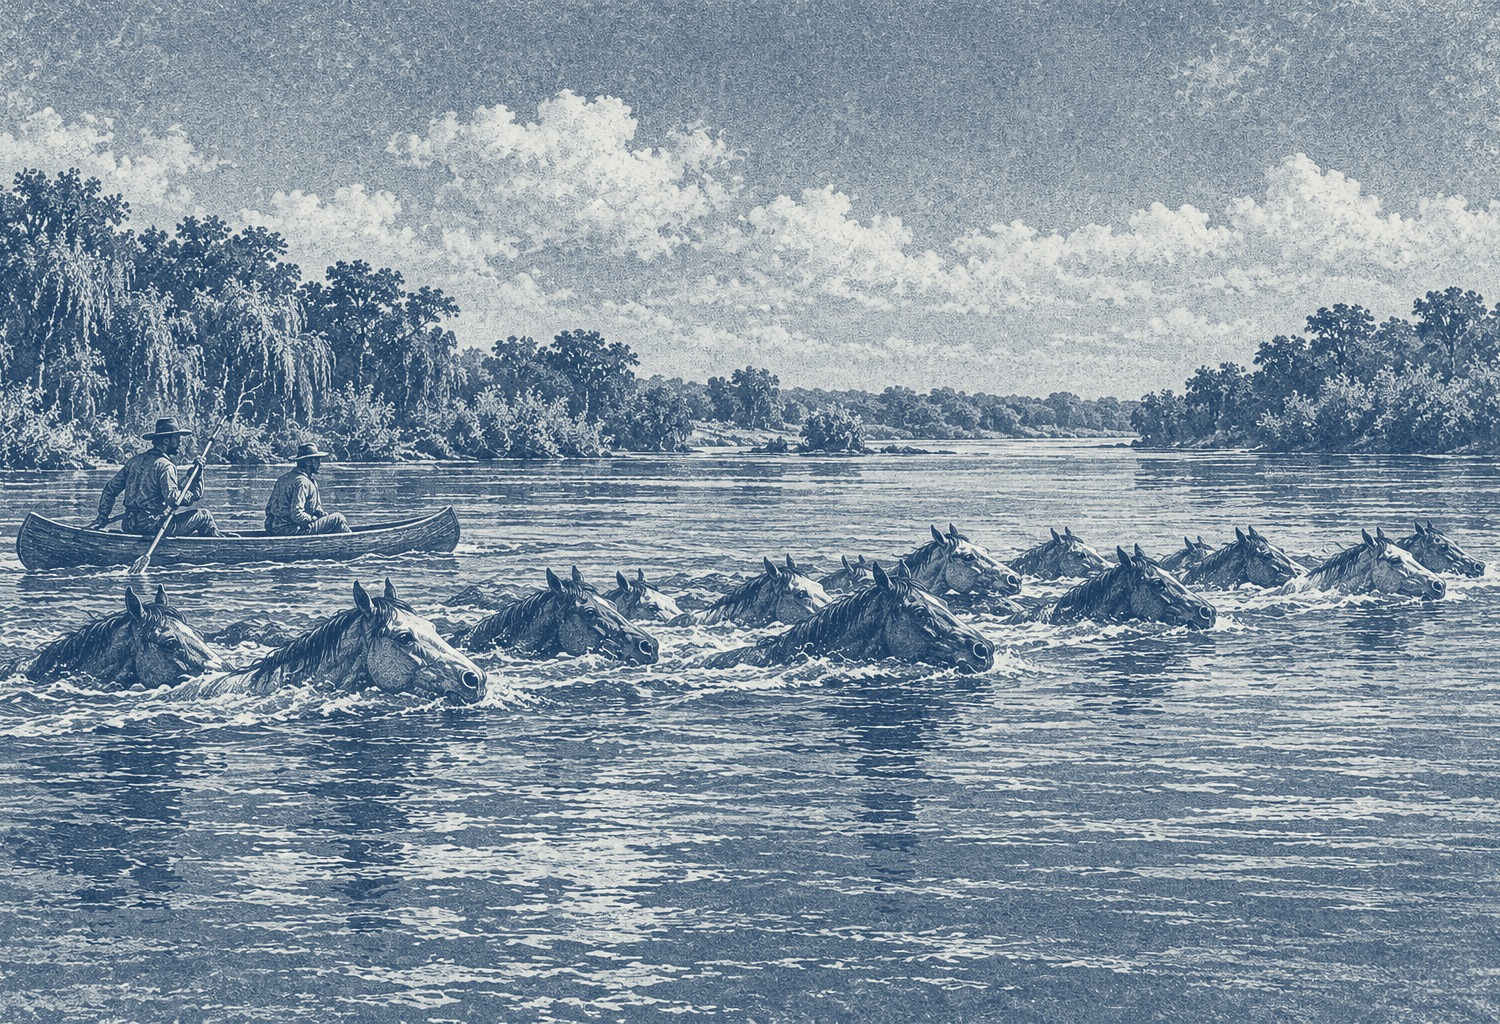
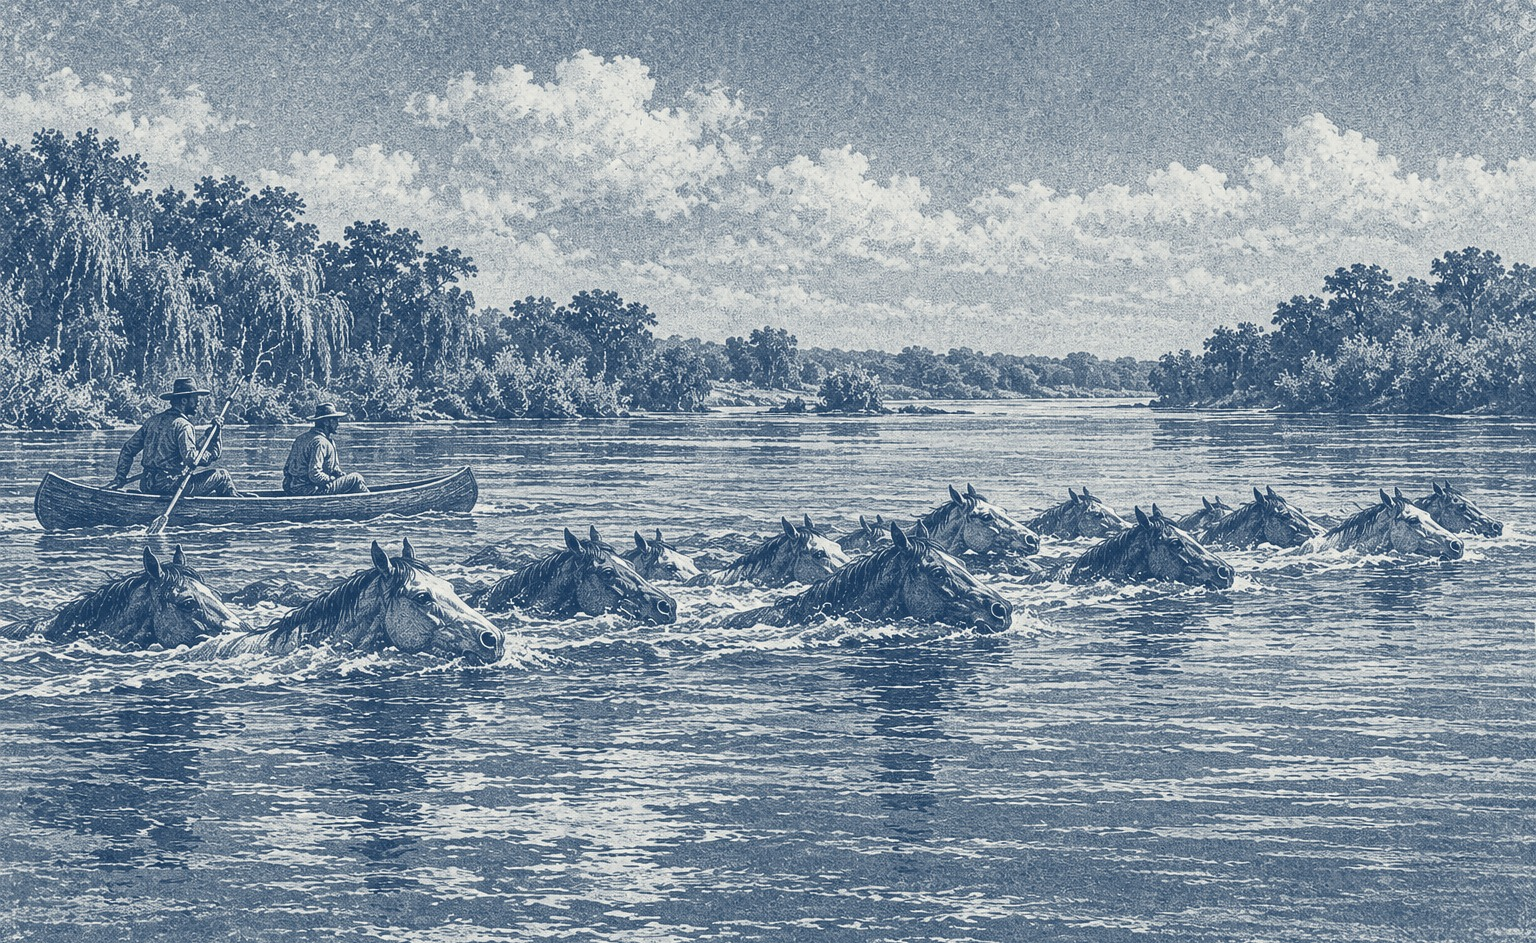
031: imagen y texto empiezan y terminan en la misma línea

diff --git a/index.html b/index.html
@@ -5,23 +5,23 @@
 <meta charset="utf-8">
 <meta name="viewport" content="width=1280">
 <title>Darwin en la Argentina — libro</title>
-<link rel="stylesheet" href="styles/tokens.css?v=41523a52">
-<link rel="stylesheet" href="styles/typography.css?v=41523a52">
-<link rel="stylesheet" href="styles/grid.css?v=41523a52">
-<link rel="stylesheet" href="styles/components.css?v=41523a52">
-<link rel="stylesheet" href="styles/pages.css?v=41523a52">
-<link rel="stylesheet" href="styles/maps.css?v=41523a52">
-<link rel="stylesheet" href="styles/paradas.css?v=41523a52">
-<link rel="stylesheet" href="styles/registros.css?v=41523a52">
-<link rel="stylesheet" href="styles/tramo-03.css?v=41523a52">
-<link rel="stylesheet" href="styles/tramo-04-05.css?v=41523a52">
-<link rel="stylesheet" href="styles/tramo-05-07.css?v=41523a52">
-<link rel="stylesheet" href="styles/tramo-07-10.css?v=41523a52">
-<link rel="stylesheet" href="styles/tramo-10-15.css?v=41523a52">
-<link rel="stylesheet" href="styles/fotos.css?v=41523a52">
-<link rel="stylesheet" href="tapa/tapa.css?v=41523a52">
-<link rel="stylesheet" href="styles/medida.css?v=41523a52">
-<link rel="stylesheet" href="styles/print.css?v=41523a52">
+<link rel="stylesheet" href="styles/tokens.css?v=0a7509f7">
+<link rel="stylesheet" href="styles/typography.css?v=0a7509f7">
+<link rel="stylesheet" href="styles/grid.css?v=0a7509f7">
+<link rel="stylesheet" href="styles/components.css?v=0a7509f7">
+<link rel="stylesheet" href="styles/pages.css?v=0a7509f7">
+<link rel="stylesheet" href="styles/maps.css?v=0a7509f7">
+<link rel="stylesheet" href="styles/paradas.css?v=0a7509f7">
+<link rel="stylesheet" href="styles/registros.css?v=0a7509f7">
+<link rel="stylesheet" href="styles/tramo-03.css?v=0a7509f7">
+<link rel="stylesheet" href="styles/tramo-04-05.css?v=0a7509f7">
+<link rel="stylesheet" href="styles/tramo-05-07.css?v=0a7509f7">
+<link rel="stylesheet" href="styles/tramo-07-10.css?v=0a7509f7">
+<link rel="stylesheet" href="styles/tramo-10-15.css?v=0a7509f7">
+<link rel="stylesheet" href="styles/fotos.css?v=0a7509f7">
+<link rel="stylesheet" href="tapa/tapa.css?v=0a7509f7">
+<link rel="stylesheet" href="styles/medida.css?v=0a7509f7">
+<link rel="stylesheet" href="styles/print.css?v=0a7509f7">
 </head>
 <body>
 <div class="spread"><div class="slot--empty"></div><section class="page page--cover page--right front" id="ptapa">
@@ -939,7 +939,7 @@
     <h1 class="p031__title t-pagetitle">Cruzar el Río Colorado</h1>
     <p class="p031__text t-darwin body">El Colorado, en el paso por donde le cruzamos, mide solamente unos 60 metros de ancho, próximamente la mitad del que tiene en general. Su curso es muy tortuoso, estando marcado por sauces y espesuras de cañas; la distancia en línea recta hasta la desembocadura del río es, según se dice, de nueve leguas; pero 25 por el agua. Al cruzarle en la canoa nos vimos detenidos por inmensas yeguadas, que pasaban nadando para seguir detrás de una división de tropas que se hallaba en el interior. Nunca he contemplado un espectáculo tan original como el que presentaban cientos y cientos de cabezas todas en la misma dirección, con las orejas erguidas y las fosas nasales dilatadas, dando resoplidos y apareciendo a flor de agua como un banco de extraños animales anfibios.</p>
 
-    <div class="p031__image foto" style="background-image:url(assets/images/031-yeguada.jpg?v=02b1ff9d)" role="img" aria-label="yeguada cruzando el río a nado: cabezas a flor de agua, todas en la misma dirección, orejas erguidas"></div>
+    <div class="p031__image foto" style="background-image:url(assets/images/031-yeguada.jpg?v=69a0c1d9)" role="img" aria-label="yeguada cruzando el río a nado: cabezas a flor de agua, todas en la misma dirección, orejas erguidas"></div>
 
     <svg class="p031__meander diagram" viewBox="0 0 188 27" aria-hidden="true">
       <path class="map__river map__river--main" d="M6.00 17.00L6.25 17.14L6.55 17.28L6.90 17.39L7.28 17.49L7.70 17.57L8.15 17.62L8.61 17.65L9.10 17.66L9.59 17.64L10.07 17.60L10.54 17.54L11.00 17.46L11.42 17.36L11.82 17.24L12.18 17.10L12.50 16.95L12.78 16.80L13.01 16.63L13.21 16.46L13.37 16.28L13.49 16.10L13.58 15.92L13.63 15.74L13.67 15.56L13.67 15.38L13.67 15.20L13.65 15.02L13.61 14.84L13.58 14.66L13.55 14.48L13.52 14.31L13.50 14.13L13.49 13.95L13.50 13.77L13.53 13.59L13.58 13.40L13.67 13.22L13.78 13.04L13.93 12.87L14.12 12.69L14.34 12.53L14.60 12.36L14.89 12.21L15.23 12.07L15.59 11.93L15.99 11.81L16.42 11.71L16.87 11.62L17.33 11.55L17.81 11.50L18.30 11.47L18.79 11.46L19.27 11.47L19.74 11.49L20.20 11.54L20.64 11.60L21.06 11.68L21.45 11.77L21.81 11.88L22.15 11.99L22.46 12.12L22.73 12.26L22.98 12.41L23.20 12.56L23.40 12.72L23.57 12.88L23.73 13.04L23.86 13.21L23.98 13.38L24.09 13.55L24.19 13.73L24.28 13.90L24.37 14.07L24.46 14.25L24.56 14.42L24.66 14.59L24.77 14.76L24.90 14.93L25.04 15.10L25.20 15.27L25.37 15.43L25.57 15.58L25.80 15.74L26.04 15.88L26.32 16.02L26.62 16.15L26.94 16.28L27.29 16.39L27.67 16.49L28.06 16.58L28.48 16.66L28.92 16.72L29.38 16.77L29.84 16.80L30.32 16.82L30.80 16.83L31.29 16.82L31.78 16.79L32.26 16.75L32.74 16.69L33.21 16.63L33.66 16.55L34.11 16.45L34.53 16.35L34.94 16.24L35.33 16.11L35.70 15.98L36.05 15.84L36.38 15.70L36.69 15.55L36.98 15.39L37.26 15.23L37.52 15.07L37.76 14.91L37.99 14.74L38.21 14.57L38.42 14.40L38.63 14.23L38.83 14.06L39.02 13.89L39.22 13.71L39.42 13.54L39.62 13.37L39.83 13.20L40.04 13.03L40.27 12.86L40.51 12.70L40.76 12.53L41.02 12.37L41.30 12.21L41.60 12.06L41.92 11.91L42.25 11.77L42.61 11.63L42.98 11.50L43.37 11.38L43.78 11.27L44.20 11.16L44.64 11.07L45.10 10.98L45.56 10.91L46.04 10.85L46.52 10.81L47.00 10.78L47.49 10.76L47.98 10.75L48.46 10.76L48.94 10.78L49.40 10.81L49.86 10.86L50.30 10.92L50.73 10.99L51.14 11.08L51.52 11.17L51.89 11.28L52.24 11.39L52.57 11.51L52.87 11.64L53.16 11.78L53.42 11.92L53.67 12.07L53.90 12.22L54.11 12.37L54.30 12.53L54.48 12.69L54.65 12.85L54.81 13.02L54.96 13.18L55.11 13.35L55.26 13.52L55.40 13.68L55.54 13.85L55.69 14.01L55.85 14.18L56.01 14.34L56.19 14.50L56.38 14.66L56.58 14.82L56.81 14.97L57.05 15.12L57.31 15.26L57.59 15.40L57.90 15.53L58.22 15.65L58.57 15.76L58.95 15.86L59.34 15.96L59.76 16.03L60.19 16.10L60.64 16.15L61.11 16.19L61.58 16.21L62.07 16.22L62.56 16.21L63.04 16.18L63.53 16.14L64.00 16.08L64.46 16.01L64.91 15.92L65.34 15.82L65.75 15.70L66.13 15.58L66.48 15.44L66.81 15.29L67.11 15.14L67.37 14.98L67.61 14.81L67.82 14.64L67.99 14.47L68.14 14.29L68.27 14.11L68.37 13.93L68.45 13.75L68.51 13.57L68.55 13.39L68.58 13.21L68.60 13.03L68.62 12.85L68.63 12.67L68.64 12.49L68.65 12.31L68.67 12.12L68.70 11.94L68.74 11.76L68.80 11.58L68.88 11.40L68.98 11.22L69.11 11.04L69.26 10.87L69.45 10.69L69.66 10.52L69.91 10.36L70.19 10.20L70.51 10.05L70.86 9.91L71.24 9.79L71.65 9.67L72.08 9.58L72.54 9.50L73.01 9.43L73.49 9.39L73.98 9.36L74.47 9.36L74.95 9.38L75.41 9.42L75.86 9.47L76.27 9.55L76.66 9.65L77.02 9.76L77.34 9.88L77.61 10.02L77.85 10.17L78.05 10.33L78.20 10.49L78.31 10.66L78.39 10.84L78.43 11.02L78.44 11.19L78.42 11.38L78.38 11.56L78.31 11.74L78.23 11.92L78.13 12.10L78.03 12.28L77.92 12.46L77.80 12.64L77.69 12.82L77.59 13.00L77.50 13.18L77.42 13.36L77.36 13.54L77.33 13.72L77.32 13.90L77.34 14.08L77.40 14.26L77.50 14.43L77.64 14.60L77.82 14.76L78.05 14.91L78.32 15.05L78.63 15.17L78.98 15.29L79.37 15.38L79.79 15.45L80.24 15.51L80.71 15.54L81.20 15.55L81.68 15.53L82.17 15.49L82.64 15.43L83.10 15.35L83.53 15.25L83.93 15.13L84.29 15.00L84.61 14.85L84.89 14.69L85.12 14.52L85.31 14.35L85.46 14.17L85.57 13.99L85.64 13.81L85.68 13.63L85.68 13.45L85.66 13.27L85.61 13.10L85.55 12.92L85.47 12.74L85.39 12.57L85.30 12.40L85.21 12.22L85.12 12.05L85.05 11.87L84.99 11.70L84.94 11.52L84.92 11.34L84.93 11.16L84.97 10.98L85.04 10.80L85.16 10.62L85.31 10.44L85.51 10.27L85.75 10.10L86.03 9.95L86.36 9.80L86.72 9.67L87.12 9.55L87.56 9.45L88.01 9.37L88.49 9.31L88.97 9.27L89.46 9.26L89.94 9.27L90.41 9.30L90.86 9.35L91.29 9.42L91.69 9.51L92.05 9.62L92.38 9.74L92.66 9.87L92.91 10.02L93.12 10.18L93.30 10.34L93.44 10.50L93.55 10.68L93.63 10.85L93.69 11.03L93.73 11.21L93.75 11.38L93.76 11.56L93.77 11.74L93.77 11.92L93.78 12.10L93.80 12.28L93.82 12.46L93.86 12.64L93.93 12.82L94.01 12.99L94.12 13.16L94.27 13.33L94.44 13.49L94.65 13.64L94.90 13.79L95.18 13.93L95.50 14.05L95.86 14.16L96.25 14.26L96.66 14.34L97.10 14.40L97.57 14.44L98.04 14.46L98.53 14.46L99.01 14.44L99.50 14.41L99.98 14.35L100.44 14.27L100.88 14.18L101.30 14.08L101.70 13.96L102.07 13.83L102.41 13.68L102.72 13.54L103.01 13.38L103.27 13.22L103.50 13.05L103.71 12.88L103.90 12.71L104.07 12.53L104.23 12.35L104.38 12.18L104.52 12.00L104.66 11.82L104.80 11.64L104.95 11.47L105.11 11.29L105.28 11.12L105.46 10.94L105.66 10.77L105.88 10.60L106.13 10.44L106.40 10.28L106.70 10.12L107.02 9.98L107.37 9.84L107.75 9.71L108.15 9.60L108.58 9.49L109.02 9.40L109.49 9.33L109.96 9.27L110.44 9.22L110.93 9.20L111.42 9.19L111.90 9.20L112.37 9.23L112.84 9.27L113.28 9.32L113.71 9.40L114.11 9.48L114.49 9.58L114.85 9.69L115.18 9.81L115.49 9.94L115.78 10.07L116.05 10.21L116.30 10.36L116.53 10.51L116.74 10.66L116.94 10.82L117.14 10.98L117.33 11.14L117.52 11.30L117.71 11.45L117.90 11.61L118.10 11.77L118.31 11.93L118.53 12.08L118.77 12.22L119.03 12.37L119.31 12.51L119.61 12.64L119.93 12.76L120.28 12.87L120.65 12.98L121.04 13.07L121.46 13.15L121.89 13.21L122.34 13.27L122.81 13.30L123.29 13.32L123.77 13.32L124.26 13.31L124.75 13.28L125.23 13.23L125.70 13.17L126.16 13.09L126.60 12.99L127.02 12.89L127.42 12.77L127.80 12.64L128.15 12.50L128.48 12.36L128.78 12.21L129.06 12.05L129.31 11.88L129.55 11.72L129.76 11.55L129.96 11.38L130.15 11.20L130.32 11.03L130.49 10.85L130.65 10.68L130.81 10.50L130.98 10.33L131.15 10.15L131.34 9.98L131.53 9.81L131.74 9.64L131.97 9.47L132.22 9.30L132.50 9.15L132.80 8.99L133.13 8.85L133.48 8.71L133.86 8.58L134.26 8.46L134.69 8.36L135.13 8.27L135.60 8.20L136.07 8.14L136.56 8.10L137.04 8.08L137.53 8.08L138.01 8.10L138.48 8.13L138.92 8.18L139.35 8.26L139.75 8.34L140.13 8.44L140.47 8.56L140.78 8.69L141.06 8.83L141.30 8.97L141.51 9.13L141.69 9.29L141.84 9.46L141.96 9.62L142.06 9.80L142.14 9.97L142.20 10.15L142.25 10.33L142.29 10.50L142.33 10.68L142.36 10.86L142.40 11.04L142.44 11.22L142.50 11.39L142.57 11.57L142.66 11.74L142.77 11.91L142.91 12.08L143.07 12.25L143.27 12.40L143.50 12.55L143.77 12.69L144.07 12.82L144.41 12.94L144.78 13.04L145.18 13.13L145.61 13.20L146.07 13.25L146.54 13.28L147.02 13.29L147.51 13.28L147.99 13.25L148.47 13.19L148.93 13.12L149.37 13.02L149.79 12.91L150.17 12.79L150.52 12.65L150.83 12.50L151.09 12.34L151.32 12.17L151.51 12.00L151.65 11.82L151.76 11.64L151.83 11.46L151.87 11.28L151.89 11.10L151.87 10.92L151.84 10.74L151.79 10.56L151.72 10.38L151.65 10.21L151.58 10.03L151.50 9.86L151.43 9.68L151.37 9.51L151.32 9.33L151.28 9.15L151.27 8.97L151.29 8.79L151.33 8.61L151.40 8.43L151.52 8.25L151.67 8.07L151.86 7.90L152.09 7.73L152.36 7.57L152.67 7.42L153.03 7.29L153.41 7.16L153.83 7.06L154.28 6.97L154.75 6.90L155.23 6.85L155.72 6.82L156.20 6.82L156.68 6.84L157.14 6.88L157.58 6.94L157.99 7.02L158.37 7.12L158.71 7.24L159.02 7.37L159.27 7.51L159.49 7.66L159.66 7.83L159.80 7.99L159.89 8.17L159.94 8.34L159.96 8.52L159.95 8.70L159.91 8.89L159.85 9.07L159.77 9.25L159.68 9.43L159.57 9.61L159.45 9.79L159.33 9.97L159.22 10.14L159.10 10.32L158.99 10.50L158.90 10.68L158.82 10.86L158.76 11.05L158.72 11.23L158.71 11.41L158.73 11.59L158.78 11.76L158.87 11.94L158.99 12.11L159.16 12.27L159.36 12.43L159.61 12.57L159.90 12.71L160.22 12.83L160.58 12.94L160.98 13.03L161.40 13.10L161.85 13.16L162.32 13.19L162.80 13.21L163.28 13.20L163.77 13.18L164.25 13.13L164.72 13.06L165.18 12.98L165.61 12.88L166.02 12.77L166.39 12.64L166.74 12.50L167.05 12.35L167.33 12.19L167.58 12.03L167.79 11.86L167.97 11.68L168.12 11.51L168.24 11.33L168.33 11.15L168.40 10.97L168.45 10.79L168.48 10.60L168.50 10.42L168.51 10.24L168.51 10.06L168.50 9.88L168.50 9.70L168.49 9.52L168.50 9.34L168.51 9.16L168.53 8.98L168.57 8.80L168.62 8.62L168.70 8.44L168.79 8.26L168.92 8.08L169.07 7.90L169.25 7.73L169.45 7.56L169.69 7.39L169.96 7.23L170.26 7.08L170.60 6.94L170.96 6.80L171.34 6.68L171.76 6.57L172.19 6.47L172.64 6.38L173.11 6.31L173.59 6.26L174.07 6.22L174.56 6.20L175.05 6.20L175.53 6.21L176.00 6.24L176.46 6.28L176.90 6.34L177.33 6.41L177.74 6.50L178.12 6.59L178.48 6.70L178.82 6.82L179.13 6.95L179.42 7.08L179.69 7.22L179.94 7.37L180.16 7.52L180.37 7.67L180.56 7.83L180.73 8.00L180.89 8.16L181.04 8.33L181.18 8.49L181.32 8.66L181.45 8.83L181.58 9.00L181.72 9.17L181.86 9.33L182.00 9.50"/>

diff --git a/styles/medida.css b/styles/medida.css
@@ -254,3 +254,7 @@
 /* 024: la imagen va a sangre abajo y a la izquierda (pedido de Patricio, 12 oct. 2026); el folio, sobre chapa de papel */
 .p024__image { margin-left: calc(var(--margin-outer) * -1); margin-bottom: calc(var(--margin-bottom) * -1); }
 #p024 .page__folio { background: var(--paper); padding: 0.7mm 1.6mm; margin: -0.7mm -1.6mm; }
+
+/* 031: la imagen empieza y termina con el texto (13 líneas, 7–19): borde superior a la altura de las mayúsculas
+   de la primera línea y borde inferior en la línea de base de la última (pedido de Patricio, 12 oct. 2026) */
+.p031__image { grid-row: 7 / 20; margin-top: 0.85mm; margin-bottom: 1mm; }

diff --git a/tools/fotos.py b/tools/fotos.py
@@ -23,7 +23,7 @@ FOTOS = [
     ('028', 'walleechu', 102, 148, 'c', .5, .5, 0),
     ('029', 'hoguera', 188, 36, 'c', .5, .56, 0),
     ('030', 'aguti', 60, 54, 'l', .5, .5, 0),
-    ('031', 'yeguada', 92.3, 63, 'c', .5, .5, 0),
+    ('031', 'yeguada', 92.3, 56.65, 'c', .5, .5, 0),
     ('034', 'posta', 92.3, 85.5, 'c', .5, .45, 0),
     ('036', 'punta-alta', 210, 37, 'c', .5, .50, 0),
     ('038', 'megaterios', 92.3, 94.5, 'l', .5, .5, 0),

diff --git a/BOOK_PROGRESS.md b/BOOK_PROGRESS.md
@@ -520,3 +520,4 @@ Se reemplazaron los 39 recuadros de imagen pendiente por ilustraciones generadas
 - 2026-10-12 · 074–105 revisadas (trabajo autónomo, misma información; ninguna de estas páginas está aprobada todavía). Con cambios: 077 (nota D termina con la lista), 078 (nota ED termina con el texto), 080 (esquema de la isla redibujado más alto; nota ED termina con el texto), 081 (nota E a la par de la nota ED), 082 (la franja baja una línea, a la altura de la de 083), 084 (el esquema del abra empieza con el texto), 085 (perfil más alto; nota ED termina con el texto), 086 (texto desde la línea 7; nota e imagen a la altura de la franja de grava de 087), 088 (esquema y nota bajan; la nota a la altura de los pies de 089), 094 (los tres números apilados junto al texto, como en 055), 096 (imagen, esquema y nota compactados; la nota termina con el texto), 099 (corte redibujado más alto; nota ED termina con el texto). Sin cambios: 074–076, 079, 083, 087, 089–093, 095, 097, 098, 100–105.
 - 2026-10-12 · 072: VERIFICACIÓN DOCUMENTAL HECHA. La pág. 182 (que falta en el escaneo del proyecto) se cotejó a la vista con el facsímil de la misma edición (Espasa-Calpe 1921, tomo I) en Wikisource/Commons, imagen 209 del djvu: el texto del fragmento y la nota (1) coinciden palabra por palabra (comparación a la vista y mecánica contra la transcripción). Se confirma «3°» y «género Cactus» (ya no es duda). Se quita el cartel de la página; re-aprobada.
 - 2026-10-12 · 024: la imagen de la salina va a sangre abajo y a la izquierda (pedido de Patricio; caja 198 × 43,5 mm, 197 ppp); el folio queda sobre chapa de papel. Solo CSS e imagen: sigue bloqueada.
+- 2026-10-12 · 031: la imagen empieza y termina con el texto (líneas 7–19; borde superior a la altura de las mayúsculas de la primera línea, inferior en la línea de base de la última; recorte 92,3 × 56,65 mm, 423 ppp). Pedido de Patricio. Solo CSS e imagen: sigue bloqueada.
